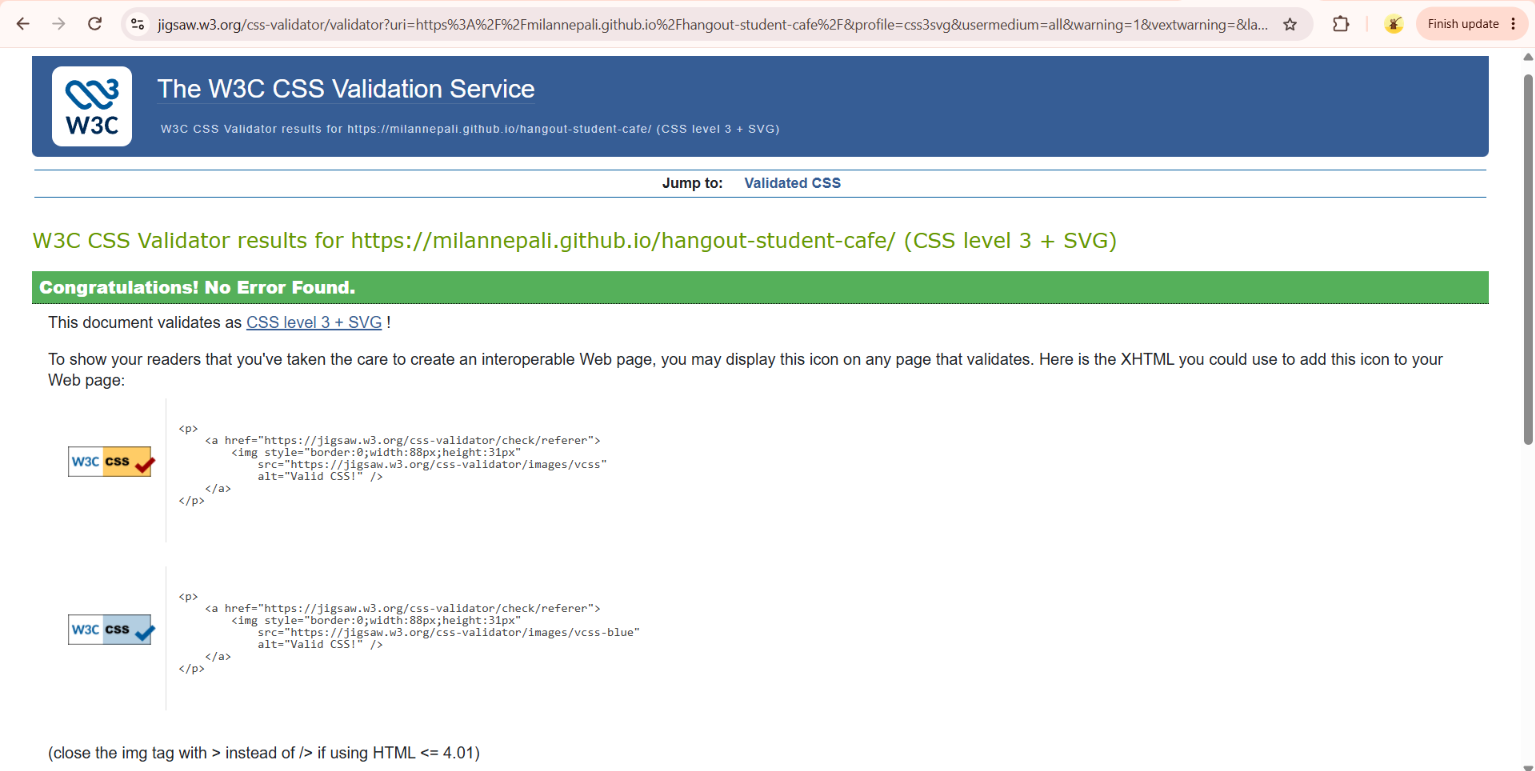
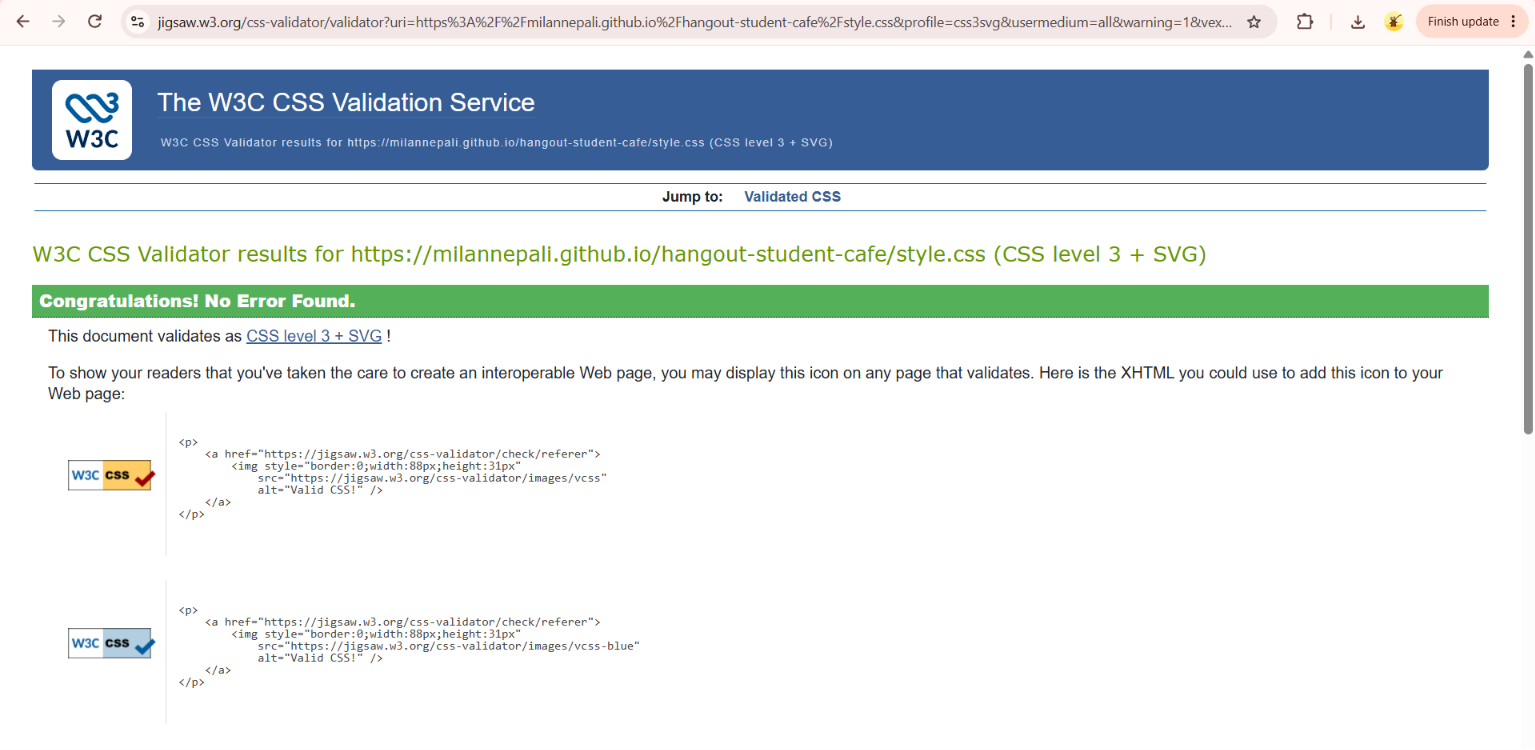
Update README and final validation

diff --git a/README.md b/README.md
@@ -32,3 +32,13 @@ https://milannepali.github.io/hangout-student-cafe/
 ## API
 
 Restaurant data, menus, and user account information are fetched from the Metropolia Student Restaurants API.
+
+## Validation
+
+### HTML validation
+
+![HTML validation](validator/html-validation.png)
+
+### CSS validation
+
+![CSS validation](validator/css-validation.png)
